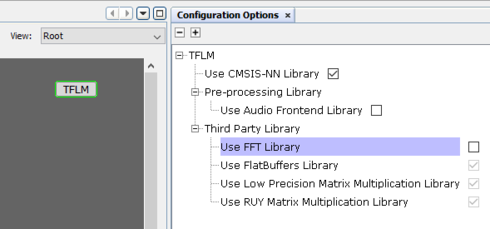
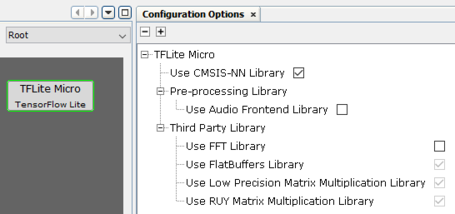
[DOC] Updated doc to use TFlite Micro display name MH3-62541

Changed region(s): [[0.0, 0.0, 1.0, 1.0], [0.0, 0.3364, 0.2154, 0.5327]]

diff --git a/docs/searchdata.js b/docs/searchdata.js
@@ -30,7 +30,7 @@ var SearchTitles = ["MPLAB® Harmony TensorFlow Lite Configurations and Applicat
 "Building and Running the Application on SAM E70 Xplained Ultra Evaluation Kit",
 "Building and Running the Application on SAM E54 Curiosity Ultra Development Board"];
 
-var SearchInfo = [" MPLAB® Harmony TensorFlow Lite Configurations and Application examples for Microchip Microcontrollers This distribution package contains scripts to represent TensorFlow Lite for Microcontrollers as a component for easier configuration and example applications to demonstrate the usage as part of Harmony framework Google Colaboratory notebook is provided to create Convolutional Neural Network (CNN) and train with MNIST dataset to classify handwritten digit Refer to Digit Recognition example application for more details Introduction TensorFlow is an end-to-end open-source platform for machine learning Tensorflow bundles together Machine Learning and Deep Learning models and algorithms TensorFlow can be used for both network training and inference whereas TensorFlow Lite for Microcontroller (TFLM) is specifically designed to deploy a pre-trained deep learning model on embedded devices with limited compute and memory resources The process of creating and deploying machine learning model on Microcontroller using TFLM is given below Select and train a model using TensorFlow Convert the model to TensorFlow Lite format using TensorFlow Lite Converter Deploy the converted model for inferencing on Microcontrollers with TFLM run time engine ml flow TensorFlow Lite converter takes a TensorFlow model and generates a TensorFlow Lite model (an optimized FlatBuffer format identified by the tflite file extension) You can quantize the model to reduce model size and improve execution performance Refer to post-training quantization for more details Google Colab or \"Colaboratory\" allows you to write and execute Python in your browser to create models and evaluate these models Refer to the following information to get started with TensorFlow and Google Colaboratory Welcome to Colaboratory TensorFlow 2 quickstart for beginners TensorFlow Lite for Microcontroller (TFLM) Configurations The following figure shows the configuration option for TFLM component tflite_configuration Use CMSIS-NN Library CMSIS-NN provides optimized kernels to maximize the performance and minimize the memory for Cortex-M4 and Cortex-M7 based Microcontrollers TensorFlow Lite uses optimized kernels (integer) when available The reference kernels (float) are used as the fallback option Use Audio Frontend Library This is required to run the micro_speech example with TFLM Use FFT library This is required to run the micro_speech example with TFLM TFLM makes use of following third-party library FlatBuffers library Low Precision Matrix Multiplication library RUY Matrix Multiplication Library Application examples The following applications are provided to demonstrate the typical or interesting usage models for TensorFlow Lite Name Description Digit Recognition Demonstrates handwritten digit recognition hello world Demonstrate the absolute basics of using TensorFlow Lite for Microcontroller magic wand Demonstrates how to use accelerometer to recognize gestures micro speech Demonstrates how to recognize keywords from speech data ",
+var SearchInfo = [" MPLAB® Harmony TensorFlow Lite Configurations and Application examples for Microchip Microcontrollers This distribution package contains scripts to represent TensorFlow Lite for Microcontrollers as a component for easier configuration and example applications to demonstrate the usage as part of Harmony framework Google Colaboratory notebook is provided to create Convolutional Neural Network (CNN) and train with MNIST dataset to classify handwritten digit Refer to Digit Recognition example application for more details Introduction TensorFlow is an end-to-end open-source platform for machine learning Tensorflow bundles together Machine Learning and Deep Learning models and algorithms TensorFlow can be used for both network training and inference whereas TensorFlow Lite for Microcontroller (TFLM) is specifically designed to deploy a pre-trained deep learning model on embedded devices with limited compute and memory resources The process of creating and deploying machine learning model on Microcontroller using TFLM is given below Select and train a model using TensorFlow Convert the model to TensorFlow Lite format using TensorFlow Lite Converter Deploy the converted model for inferencing on Microcontrollers with TFLM run time engine ml flow TensorFlow Lite converter takes a TensorFlow model and generates a TensorFlow Lite model (an optimized FlatBuffer format identified by the tflite file extension) You can quantize the model to reduce model size and improve execution performance Refer to post-training quantization for more details Google Colab or \"Colaboratory\" allows you to write and execute Python in your browser to create models and evaluate these models Refer to the following information to get started with TensorFlow and Google Colaboratory Welcome to Colaboratory TensorFlow 2 quickstart for beginners TensorFlow Lite for Microcontroller (TFLM) Configurations The following figure shows the configuration option for TFLite for Microcontroller (TFLM) component tflite_configuration Use CMSIS-NN Library CMSIS-NN provides optimized kernels to maximize the performance and minimize the memory for Cortex-M4 and Cortex-M7 based Microcontrollers TensorFlow Lite uses optimized kernels (integer) when available The reference kernels (float) are used as the fallback option Use Audio Frontend Library This is required to run the micro_speech example with TFLM Use FFT library This is required to run the micro_speech example with TFLM TFLM makes use of following third-party library FlatBuffers library Low Precision Matrix Multiplication library RUY Matrix Multiplication Library Application examples The following applications are provided to demonstrate the typical or interesting usage models for TensorFlow Lite Name Description Digit Recognition Demonstrates handwritten digit recognition hello world Demonstrate the absolute basics of using TensorFlow Lite for Microcontroller magic wand Demonstrates how to use accelerometer to recognize gestures micro speech Demonstrates how to recognize keywords from speech data ",
 							" Digit Recognition example This example demonstrates handwritten digit recognition using TensorFlow Lite for Microchip 32-bit Microcontrollers The neural network model is created and trained with MNIST dataset to classify a given image of handwritten digit into one of 10 classses (0-9) Google Colaboratory notebook is provided to create Convolutional Neural Network (CNN) and train with MNIST dataset to classify handwritten digit Open the notebook in google Colab Press ctrl+F9 or go to runtime menu on top and click run all option and all cells run at a time Generated model is converted to TensorFlow Lite FlatBuffer format ( model_int8_full tflite ) with full integer quantization to reduce model size and improve execution performance The easiest way to use a model in your project is to include it as a C array Hence the flatbuffer is converted to C array ( \"model_int8_full cpp\" and \"model_int8_full h\" ) tflite model MPLAB X project includes the generated model file to perform inferencing on Microcontroller using TFLM runtime engine c array model Development Kits The following list provides links to documentation on how to build and run the demo on different development kits ",
 							" Building and Running the Application on SAM E70 Xplained Ultra Evaluation Kit Downloading and building the application Path of the application within the repository is apps/digit_recognition/firmware To build the application refer to the following table and open the project in MPLAB X IDE Project Name Board Configuration sam_e70_xult_tm4301b_ssd1963 X SAM E70 Xplained Ultra Evaluation Kit with SSD1963 LCD Controller Graphics Card driving High-Performance WQVGA Display Module with maXTouch® Technology Setting up the hardware Setup hardware to drive the WQVGA display using SSD1963 external graphics controller digit_recognition_sam_e70_xult_tm4301b_ssd1963 Connect the Debug USB port on the board to the computer using a micro USB cable Running the Application Open the Terminal application (Ex :Tera term) on the computer Connect to the EDBG Virtual COM port and configure the serial settings as follows: Baud : 115200 Data : 8 Bits Parity : None Stop : 1 Bit Flow Control : None Build and Program the application Write a digit (0 to 9) on the display as shown below digit_recognition_sam_e70_xult_tm4301b_ssd1963_writedigit Recognised digit is displayed as shown below digit_recognition_sam_e70_xult_tm4301b_ssd1963_recogniseddigit The array of scores corresponding to the 10 classes are displayed in the terminal The highest scores 2 in this case will be displayed as the predicted digit digit_recognition_teraterm ",
 							" Building and Running the Application on SAM E51 Integrated Graphics and Touch Development Board Downloading and building the application Path of the application within the repository is apps/digit_recognition/firmware To build the application refer to the following table and open the project using its IDE Project Name Board Configuration sam_e51_igat X SAM E51 Integrated Graphics and Touch Development Board Setting up the hardware Connect the Debug USB port on the board to the computer using a micro USB cable Running the Application Open the Terminal application (Ex :Tera term) on the computer Connect to the EDBG Virtual COM port and configure the serial settings as follows: Baud : 115200 Data : 8 Bits Parity : None Stop : 1 Bit Flow Control : None Build and Program the application Write a digit (0 to 9) on the display as shown below digit_recognition_sam_e51_igat_writedigit Recognised digit is displayed as shown below digit_recognition_sam_e51_igat_recogniseddigit The array of scores corresponding to the 10 classes are displayed in the terminal The highest scores 2 in this case will be displayed as the predicted digit digit_recognition_teraterm ",

diff --git a/docs/GUID-64C4C60D-2C4B-4E01-BCC9-D6E17F16F1DE.html b/docs/GUID-64C4C60D-2C4B-4E01-BCC9-D6E17F16F1DE.html
@@ -225,7 +225,7 @@ You can quantize the model to reduce model size and improve execution performanc
 </li>
 </ul>
 <p class="p"><strong class="ph b">TensorFlow Lite for Microcontroller (TFLM) Configurations</strong></p>
-<p class="p">The following figure shows the configuration option for TFLM component</p>
+<p class="p">The following figure shows the configuration option for TFLite for Microcontroller (TFLM) component</p>
 <blockquote class="lq"><br /><img class="image" src="GUID-9EA6AB48-E483-4787-9F41-C7F96B67D615-low.png" alt="tflite_configuration" /><br /></blockquote>
 <ul class="ul"><li class="li"><p class="p"><a class="xref" href="https://github.com/ARM-software/CMSIS_5/tree/develop/CMSIS/NN" target="_blank">Use CMSIS-NN Library</a></p>
 </li>

diff --git a/docs/README.md b/docs/README.md
@@ -32,7 +32,7 @@ Refer to the following information to get started with TensorFlow and Google Col
 
 **TensorFlow Lite for Microcontroller \(TFLM\) Configurations**
 
-The following figure shows the configuration option for TFLM component
+The following figure shows the configuration option for TFLite for Microcontroller \(TFLM\) component
 
 > ![tflite_configuration](GUID-9EA6AB48-E483-4787-9F41-C7F96B67D615-low.png)
 

diff --git a/docs/GUID-64C4C60D-2C4B-4E01-BCC9-D6E17F16F1DE.md b/docs/GUID-64C4C60D-2C4B-4E01-BCC9-D6E17F16F1DE.md
@@ -32,7 +32,7 @@ Refer to the following information to get started with TensorFlow and Google Col
 
 **TensorFlow Lite for Microcontroller (TFLM) Configurations**
 
-The following figure shows the configuration option for TFLM component
+The following figure shows the configuration option for TFLite for Microcontroller (TFLM) component
 
 > ![tflite_configuration](GUID-9EA6AB48-E483-4787-9F41-C7F96B67D615-low.png)
 
